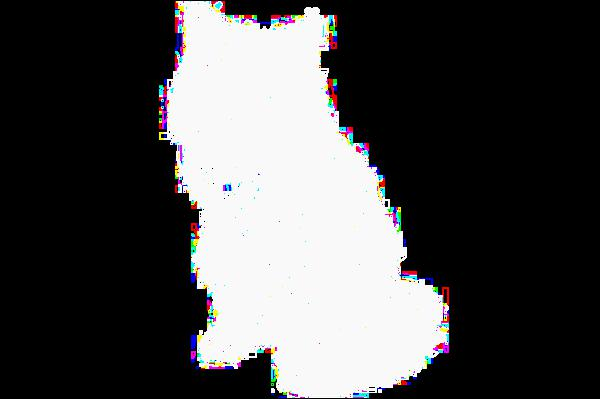
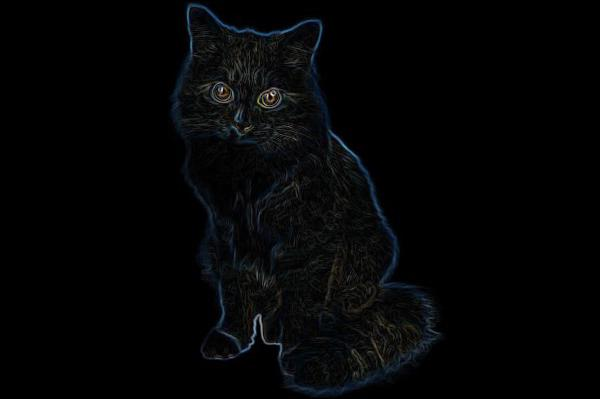
scaling functions

diff --git a/main.py b/main.py
@@ -33,15 +33,15 @@ def kernelConvolution(kernelH, kernelV, pixels):
 
 
 def detect_edges(pixels):
-    edge = np.zeros((pixels.shape[0], pixels.shape[1])).astype(int)
-    x = get_x_shift(pixels.astype(int)) - pixels
-    y = get_y_shift(pixels.astype(int)) - pixels
+    edge = np.zeros((pixels.shape[0], pixels.shape[1]))
+    x = get_x_shift(pixels) - pixels
+    y = get_y_shift(pixels) - pixels
     for i in range(1, pixels.shape[0] - 1):
         for j in range(1, pixels.shape[1] - 1):
             h = 1 * x[i-1][j+1] + 2 * x[i][j+1] + 1 * x[i+1][j+1]
             v = 1 * y[i+1][j-1] + 2 * y[i+1][j] + 1 * y[i+1][j+1]
             edge[i][j] = np.sqrt(h * h + v * v)
-    return edge.astype(float)
+    return edge
             
 
 def get_x_shift(pixels):
@@ -64,7 +64,7 @@ start = time.time()
 
 # Convert image to array.
 img = Image.open(imageFile)
-rgb = np.array(img.convert(mode='RGB'))
+rgb = np.array(img.convert(mode='RGB')).astype(float)
 
 
 # Kernels
